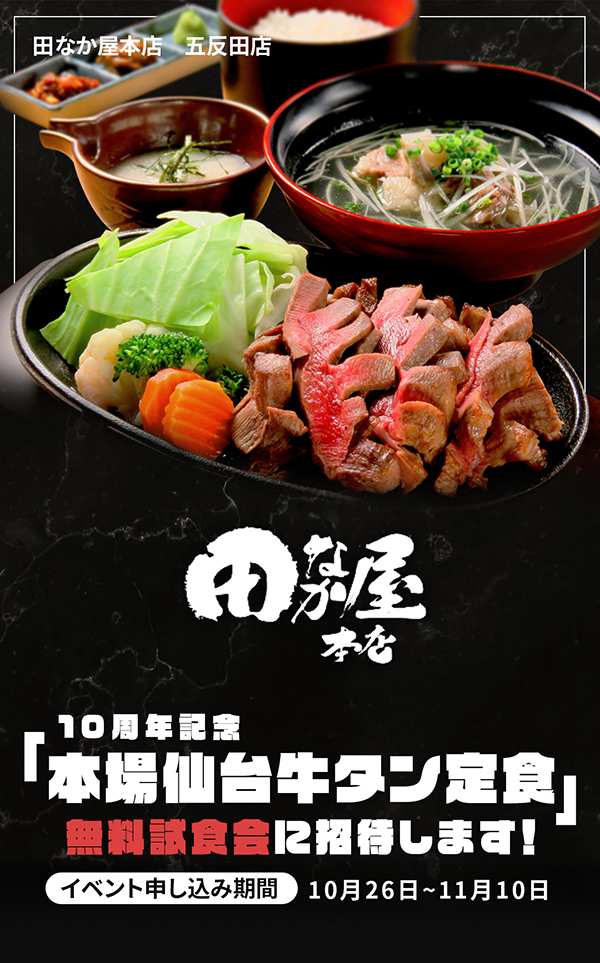
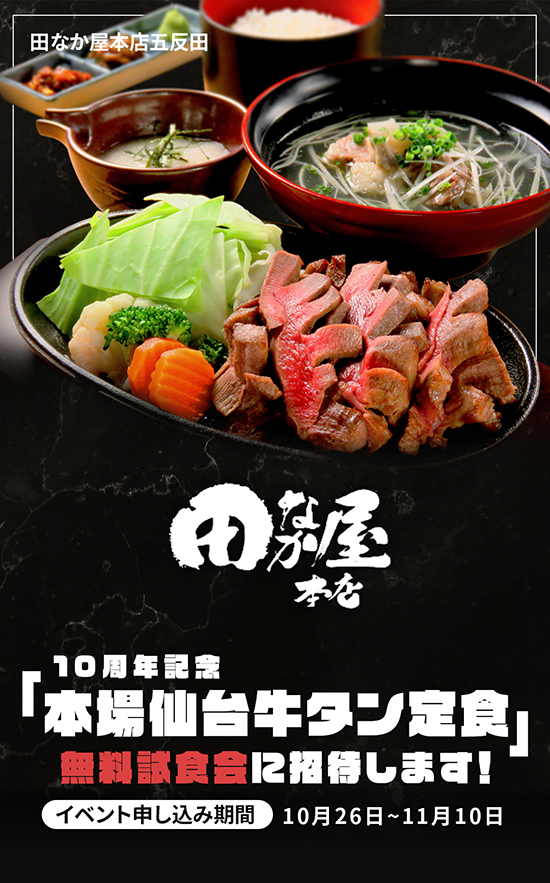
modify text and form

diff --git a/index.html b/index.html
@@ -3,7 +3,7 @@
   <head>
     <meta charset="UTF-8" />
     <meta name="viewport" content="width=device-width, initial-scale=1.0" />
-    <title>田なか屋本店 五反田店 10周年記念イベント</title>
+    <title>田なか屋本店五反田 10周年記念イベント</title>
     <link rel="stylesheet" href="src/css/style.css" />
     <script
       src="https://cdnjs.cloudflare.com/ajax/libs/jquery/3.2.1/jquery.min.js"
@@ -18,7 +18,7 @@
   </head>
   <body>
     <div class="pc">
-      <span>田なか屋本店　五反田店</span>
+      <span>田なか屋本店五反田</span>
       <span>モバイル環境でご覧になってください。</span>
     </div>
     <div class="wrapper">
@@ -27,7 +27,7 @@
           src="src/img/LP_gotanda.jpg"
           alt="田なか屋本店 五反田店 10周年記念イベント"
         />
-        <h1 class="hidden">田なか屋本店 五反田店 10周年記念イベント</h1>
+        <h1 class="hidden">田なか屋本店五反田 10周年記念イベント</h1>
       </header>
       <div class="line detail">
         <img src="src/img/lines/detail.png" alt="" />
@@ -39,7 +39,7 @@
               田なか屋本店創業10周年記念で<br />「本場仙台牛タン定食」の<br />無料試食会に１組２名様、<br />50組まで招待します。
             </h2>
             <ul>
-              <li>対象店舗：田なか屋本店　五反田店</li>
+              <li>対象店舗：田なか屋本店五反田</li>
               <li>申し込み期間：10月26日~11月10日</li>
               <li>当選発表日：11月16日以後順次発表</li>
               <li>
@@ -109,7 +109,7 @@
         </div>
         <div class="innerBox">
           <div class="innerLinebox">
-            <h3>田中屋本店<br />五反田店</h3>
+            <h3>田中屋本店<br />五反田</h3>
             <ul>
               <li>東京都品川区東五反田1-13-3デュロス五反田B1</li>
               <li>tel.050-5269-7687</li>
@@ -163,7 +163,6 @@
                 type="text"
                 name="entry.1649752412"
                 class="form-control"
-                placeholder="田中　本助"
                 required
               />
             </div>
@@ -178,7 +177,6 @@
                 type="text"
                 name="entry.1717313382"
                 class="form-control"
-                placeholder="タナカ　ホンスケ"
                 required
               />
             </div>
@@ -193,7 +191,6 @@
                 type="text"
                 name="entry.1175952310"
                 class="form-control"
-                placeholder="@tanakaya_gotanda"
                 required
               />
             </div>
@@ -239,7 +236,6 @@
                 type="text"
                 name="entry.326851470"
                 class="form-control"
-                placeholder="070-0000-0000"
               />
             </div>
           </fieldset>
@@ -256,44 +252,18 @@
                 type="text"
                 name="entry.61244465"
                 class="form-control"
-                placeholder="tanakahonsuke@tanakayahonten.com"
               />
             </div>
           </fieldset>
 
-          <!-- Field type: "choices" id: "1385200758" -->
           <fieldset>
-            <legend for="1385200758">
-              来店後、インスタグラムにアップロードした投稿をリポストしても大丈夫ですか？
+            <legend>
+              ※お客様の投稿をリポストする場合がございます。ご了承ください。
             </legend>
-            <div class="form-group radio">
-              <div class="radio">
-                <label>
-                  <input
-                    type="radio"
-                    name="entry.1110392977"
-                    value="はい"
-                    required
-                  />
-                  <span>はい</span>
-                </label>
-              </div>
-              <div class="radio">
-                <label>
-                  <input
-                    type="radio"
-                    name="entry.1110392977"
-                    value="いいえ"
-                    required
-                  />
-                  <span>いいえ</span>
-                </label>
-              </div>
-            </div>
           </fieldset>
 
           <input type="hidden" name="fvv" value="1" />
-          <input type="hidden" name="fbzx" value="-5229565504393170790" />
+          <input type="hidden" name="fbzx" value="3910639739606758615" />
           <!--
         CAVEAT: In multipages (multisection) forms, *pageHistory* field tells to google what sections we've currently completed.
         This usually starts as "0" for the first page, then "0,1" in the second page... up to "0,1,2..N" in n-th page.

diff --git a/src/css/style.css b/src/css/style.css
@@ -215,7 +215,7 @@ fieldset .form-group.radio .radio label span {
 
 .btn.btn-primary {
   height: 3rem;
-  width: 60%;
+  width: 68%;
   letter-spacing: 1.5px;
   font-size: 2rem;
   font-family: "M PLUS 1p", sans-serif;
